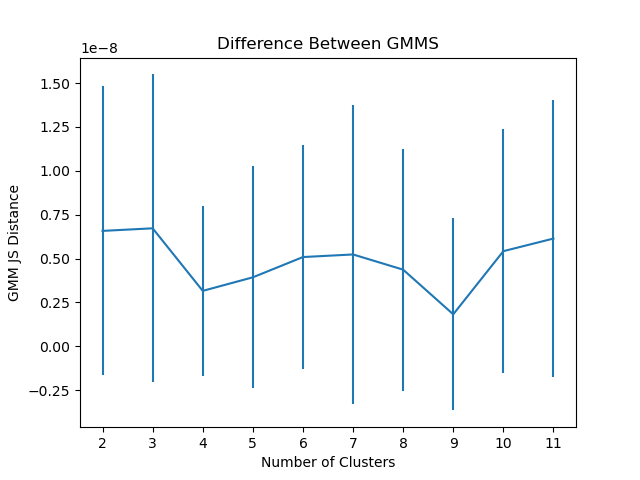
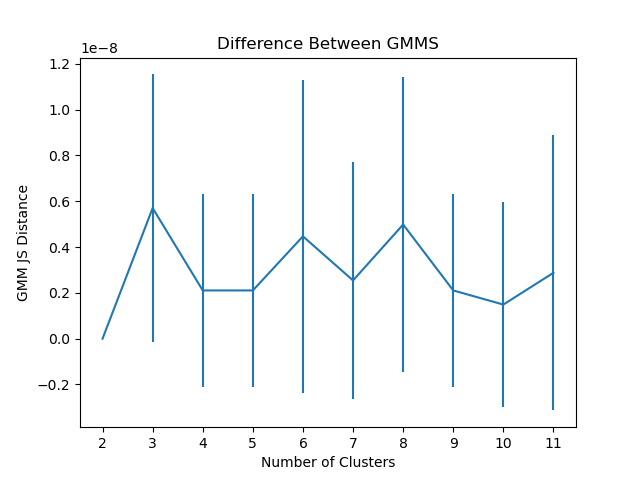
cluster on combined indices

diff --git a/scripts/processes.py b/scripts/processes.py
@@ -180,7 +180,7 @@ def output_cluster_map_and_plots(date, keywords, param_ranges,
 
 def output_cluster_map(date, keywords, param_ranges, 
                            latRng = [65, 115], lngRng = [0, 50], 
-                            n_comp = 4, cov_type = "full", cm_num = 3, threshold = 0.75):
+                            n_comp = 4, ROI = {}, cov_type = "full", cm_num = 3, threshold = 0.75):
     
     # creates spatial cluster map
     [input_arr, subset_shape] = pre.get_input_array(keywords, param_ranges, latRng, lngRng, cm_num)
@@ -192,7 +192,7 @@ def output_cluster_map(date, keywords, param_ranges,
     cmap = ListedColormap(colors[:n_comp])
 
     fig, axis = pl.subplots(1, 1)
-    MP.create_cluster_map(axis, n_comp, pred, input_arr, subset_shape, latRng, lngRng, cmap, cm_num)
+    MP.create_cluster_map(axis, n_comp, pred, input_arr, subset_shape, latRng, lngRng, cmap, ROI, cm_num)
     fig.suptitle(create_plot_title(keywords, latRng, lngRng, n_comp, threshold), fontsize = 10)
     output_file_name = create_file_name(keywords, latRng, lngRng, n_comp, "cluster_map", cm_num, threshold)
     fig.savefig(output_file_name)
@@ -231,7 +231,7 @@ def create_plot_title(keywords, latRng, lngRng, n_comp, threshold):
 
 def create_map_comparison(date, keywords, param_ranges, 
                            latRng = [85, 95], lngRng = [230, 260], 
-                            n_comp = 4, cov_type = "full",  cm_num = 1, threshold = 0.75):
+                            n_comp = 4, ROI = {},cov_type = "full",  cm_num = 1, threshold = 0.75):
     
     # creates spatial cluster map comparison with dimension maps
     [input_arr, subset_shape] = pre.get_input_array(keywords, param_ranges, latRng, lngRng, cm_num)
@@ -242,7 +242,7 @@ def create_map_comparison(date, keywords, param_ranges,
     stats = STAT.get_all_stats(pred, keywords, indices, n_comp, latRng, lngRng, cm_num)
     pred = STAT.reassign_clusters(np.array(pred), np.swapaxes(stats[:, :, 0], 0, 1), np.array(param_ranges))
     cmap = ListedColormap(colors[: n_comp])
-    create_map_comp_figure(keywords, latRng, lngRng, cm_num, n_comp, pred, input_arr, subset_shape, param_ranges, threshold, cmap)
+    create_map_comp_figure(keywords, latRng, lngRng, cm_num, n_comp, pred, input_arr, subset_shape, param_ranges, threshold, cmap, ROI)
    
 
 
@@ -273,15 +273,23 @@ lat_range = [0, 15]
 lon_range = [360 - lon_range[1], 360 - lon_range[0]]
 lat_range = [90 - lat_range[1], 90 - lat_range[0]]
 
-output_comparison_and_plot("20251016", ["NH3", "PCld"], [[0, 300], [1000,  3100]], lat_range, lon_range, 4)
-output_cluster_map_and_plots("20251016", ["NH3", "PCld", "AOI", "CI"], [[0, 300], [1000,  3100], [0.1, 0.4], [0.4, 0.8]], [75, 105], [0, 200], 4)
+#output_comparison_and_plot("20251016", ["NH3", "PCld"], [[0, 300], [1000,  3100]], lat_range, lon_range, 4)
+
+
+#First two elements are the north and south colatitudes. Third is the central longitude and the fourth with the longitude halfwidth
+ROI={"Hot Spot":[82,83,14.0,2.0],
+                     "Gyre":[84,86,15.0,3.0],
+                     "Cloud Plume":[82,84,5.0,3.0],
+                     "Reference":[76,78,15,4.0]} 
+
+#output_cluster_map_and_plots("20251016", ["NH3", "PCld", "AOI", "CI"], [[0, 300], [1000,  3100], [0.1, 0.4], [0.4, 0.8]], lat_range, lon_range, 5)
 
 #output_comparison_and_plot("20251016", ["AOI", "CI"], [[0.1, 0.4], [0.4, 0.8]], lat_range, lon_range, 5)
 
-"""
+
 output_cluster_map("20251016",
                        ["275", "395", "502", "619", "631", "645", "673", "727", "889"], 
                       [[0, 1], [0,  1], [0,  1], [0,  1], [0,  1], [0,  1], [0,  1], [0,  1], [0,  1]], 
-                      lat_range, lon_range, 8, "full", 1)
+                      lat_range, lon_range, 8, ROI, "full", 1)
                       
-"""
+

diff --git a/scripts/clustering/gmm_distance.py b/scripts/clustering/gmm_distance.py
@@ -10,8 +10,9 @@ from sklearn.pipeline import Pipeline
 from sklearn.preprocessing import StandardScaler
 from sklearn.model_selection import train_test_split
 
+print("ooh")
 
-def get_js(m1, m2, n_sample = 10**5):
+def get_js(m1, m2, n_sample = 10**4):
    
     x = m1.sample(n_sample)[0]
     log_1_x = m1.score_samples(x)
@@ -44,9 +45,6 @@ def create_js_plot(X, n_range, sample_size = 10000):
 
             #fit models
             gmm_model = GMM(n_components=n, covariance_type="full", n_init = 20)
-            #pipe = Pipeline([('scaler', StandardScaler()), ('gmm', gmm_model)])
-            #gmm_1 = pipe.fit(x1)
-            #gmm_2 = pipe.fit(x2)
 
             scaled1 = scaler.transform(x1)
             scaled2 = scaler.transform(x2)
@@ -84,7 +82,9 @@ lat_range = [90 - lat_range[1], 90 - lat_range[0]]
 cluster_rng = [2, 12]
 
 
-run_js_dist("20251016UTc/lon_0-30", ["AOI", "CI"], [[0.1, 0.4], [0.4, 0.8]],  lat_range, lon_range, cluster_rng, 1)
-run_js_dist("20251016UTc/lon_0-30", ["NH3", "PCld"], [[0, 300], [1000, 3000]],  lat_range, lon_range, cluster_rng, 1)
-run_js_dist("20251016UTc/lon_0-30", ["275", "395", "502", "619", "631", "645", "673", "727", "889"], 
-                  [[0, 1], [0,  1], [0,  1], [0,  1], [0,  1], [0,  1], [0,  1], [0,  1], [0,  1]], lat_range, lon_range, cluster_rng, 1)
+# run_js_dist("20251016UTc/lon_0-30", ["AOI", "CI"], [[0.1, 0.4], [0.4, 0.8]],  lat_range, lon_range, cluster_rng, 1)
+# run_js_dist("20251016UTc/lon_0-30", ["NH3", "PCld"], [[0, 300], [1000, 3000]],  lat_range, lon_range, cluster_rng, 1)
+# run_js_dist("20251016UTc/lon_0-30", ["275", "395", "502", "619", "631", "645", "673", "727", "889"], 
+#                   [[0, 1], [0,  1], [0,  1], [0,  1], [0,  1], [0,  1], [0,  1], [0,  1], [0,  1]], lat_range, lon_range, cluster_rng, 1)
+
+#run_js_dist("20251016UTc/lon_0-30", ["NH3", "PCld", "AOI", "CI"], [[0, 300], [1000,  3000], [0.1, 0.4], [0.4, 0.8]], lat_range, lon_range, cluster_rng, 1)

diff --git a/scripts/plots/mapping.py b/scripts/plots/mapping.py
@@ -8,6 +8,7 @@ from sklearn.metrics import silhouette_score
 from config.config import config
 from matplotlib import colors
 from mpl_toolkits.axes_grid1 import make_axes_locatable
+import matplotlib.patches as patches
 
 
 def create_axis(axs3, LatLims, LonLims, LonSys):
@@ -27,7 +28,7 @@ def create_axis(axs3, LatLims, LonLims, LonSys):
     axs3.set_adjustable('box') 
     return axs3
 
-def plot_cluster_patch(patch, LatLims, LonLims, cmap, axis, v_min, v_max, title, cm_num, fig = None, cbarplot = True, cbar_title = "test"):
+def plot_cluster_patch(patch, LatLims, LonLims, cmap, ROI, axis, v_min, v_max, title, cm_num, fig = None, cbarplot = True, cbar_title = "test"):
     '''
     Purpose:
         to plot a patch of clusters with appropriate longitude/latitude scales
@@ -49,6 +50,10 @@ def plot_cluster_patch(patch, LatLims, LonLims, cmap, axis, v_min, v_max, title,
                extent=[360 - LonLims[0],360 - LonLims[1],90-LatLims[1],
                        90-LatLims[0]],
                        aspect="equal")
+    for key, value in ROI.items():
+        
+        axis.add_patch(rect)
+
     #axis.set_title(title, pad = 15)
 
     im_ratio = patch.shape[0]/patch.shape[1]
@@ -115,12 +120,12 @@ def plot_patch(patch, LatLims, LonLims, cmap, axis, v_min, v_max, title, cm_num,
             cbar.ax.invert_yaxis()
 
 def create_cluster_map(axis,  n_comp, pred, input_arr, subset_shape, 
-                           latRng, lngRng, cmap, cm_num = 3, fig = None, cbar = False):
+                           latRng, lngRng, cmap, ROI = {}, cm_num = 3, fig = None, cbar = False):
    
     cluster_map = create_cluster_arr(input_arr, subset_shape, pred)
     
     cmap.set_under("black")
-    plot_cluster_patch(cluster_map, latRng, lngRng,  cmap, axis,  0, n_comp, "cluster map", cm_num, fig, cbar)
+    plot_cluster_patch(cluster_map, latRng, lngRng,  cmap, ROI, axis,  0, n_comp, "cluster map", cm_num, fig, cbar)
 
 
 

diff --git a/scripts/clustering/cluster_evaluation.py b/scripts/clustering/cluster_evaluation.py
@@ -2,23 +2,29 @@ import scripts.clustering.BIC as BIC
 import scripts.clustering.silhouette as SIL
 import scripts.clustering.gmm_distance as JS
 import scripts.preprocessing.preprocessing as pre
-
+print("hiiiii")
 
 def get_clustering_evaluations(subdir, keywords, param_ranges, 
                            latRng = [85, 95], lngRng = [230, 330], 
                            cluster_rng = [2, 10],
                             cm_num = 1):
+    print("hellooooo")
+    print("running")
     [input_arr, subset_shape] = pre.get_input_array(keywords, param_ranges, latRng, lngRng, cm_num)
+    print("got input:")
     pix_arr = input_arr[:, 0: len(keywords)]
     #fig = plt.subplots(3, 1)
+    print("doing bic:")
     fig_bic  = BIC.create_bic_plot(pix_arr, cluster_rng)
+    print("doing sil:")
     fig_sil = SIL.silhouette_graph(pix_arr, cluster_rng)
-    fig_js = JS.create_js_plot(pix_arr, cluster_rng)
+    # print("doing js:")
+    # fig_js = JS.create_js_plot(pix_arr, cluster_rng)
     keyword_str = "_".join(keywords)
 
     fig_bic.savefig(f"cluster_evaluations/{subdir}/BIC_plot_{keyword_str}")
     fig_sil.savefig(f"cluster_evaluations/{subdir}/sil_plot_{keyword_str}")
-    fig_js.savefig(f"cluster_evaluations/{subdir}/js_plot_{keyword_str}")
+    #fig_js.savefig(f"cluster_evaluations/{subdir}/js_plot_{keyword_str}")
 
 lon_range = [0, 30]
 lat_range = [0, 15]
@@ -26,7 +32,7 @@ lat_range = [0, 15]
 lon_range = [360 - lon_range[1], 360 - lon_range[0]]
 lat_range = [90 - lat_range[1], 90 - lat_range[0]]
 
-cluster_rng = [2, 10]
+cluster_rng = [2, 12]
 
 # get_clustering_evaluations("20251016UTc/lon_0-30", ["NH3", "PCld"], [[0, 300], [1000,  3000]], lat_range, lon_range, cluster_rng, 1)
 # get_clustering_evaluations("20251016UTc/lon_0-30", ["AOI", "CI"], [[0.1, 0.4], [0.4, 0.8]], lat_range, lon_range, cluster_rng, 1)

diff --git a/scripts/clustering/BIC.py b/scripts/clustering/BIC.py
@@ -10,7 +10,7 @@ import pylab as plt
 from sklearn.pipeline import Pipeline
 from sklearn.preprocessing import StandardScaler
 #full, tied, diagonal, spherical
-
+print("yo")
 def create_bic_plot(pix_arr, n_range = [2, 10], sample_size = 10000):
   
     n_cluster = np.arange(n_range[0], n_range[1])

diff --git a/config/config.py b/config/config.py
@@ -3,7 +3,7 @@ config = {
     'input': "data/HST/20251016UTc/Sys1",
     #'input': "data/L4/20251214UT",
     "output": "visualizations/HST/20251016UTc/lon_0-30",
-    "soft_clustering": False,
+    "soft_clustering": True,
     
 
 }
